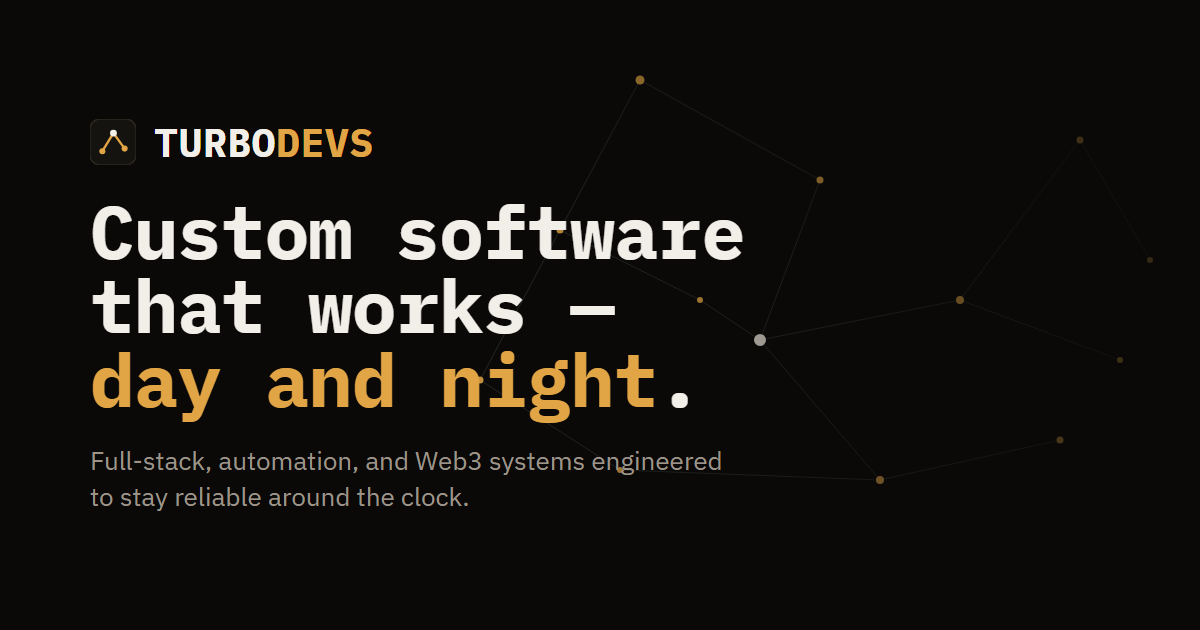
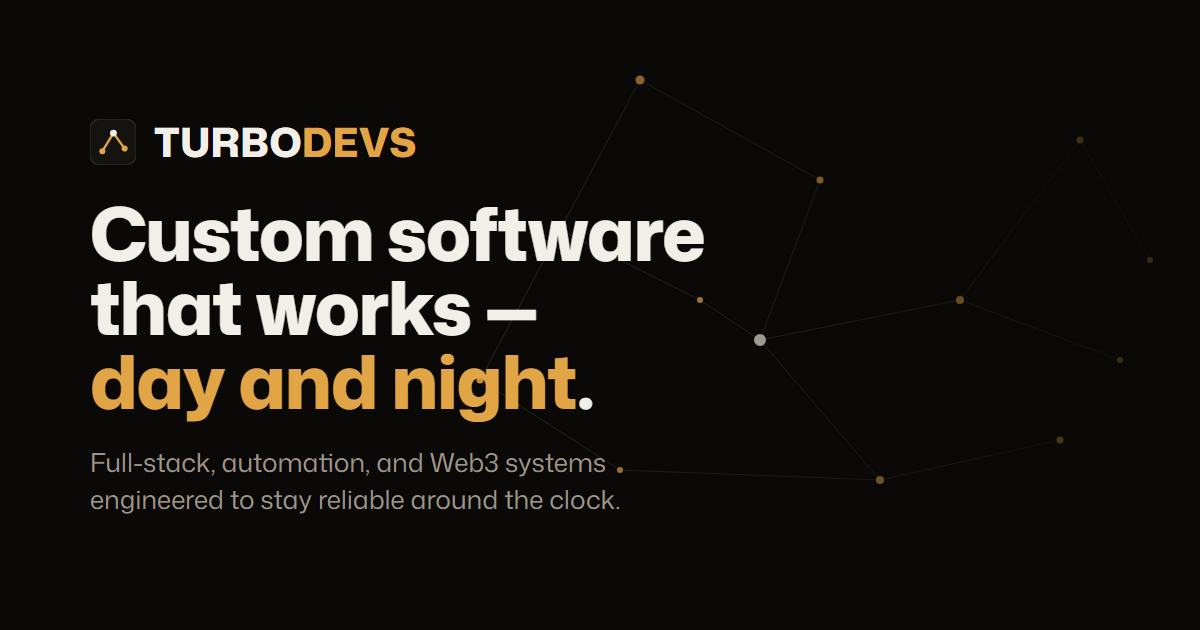
Switch the site's typeface to Mona Sans, matching dribbble.com exactly
Evaluation: inspected dribbble.com directly (computed styles + document.fonts)
rather than guessing from the screenshot. Confirmed they load exactly one
typeface, "Mona Sans Variable" (weight 200-900), for every element on the
page — headings and body alike — with fallback Helvetica Neue/Helvetica/
Arial/sans-serif. No secondary/mono face at all.

Decision: replace IBM Plex Sans with the same font+fallback stack site-wide.
Converged nearly all of the old font-mono "label" styling (nav, eyebrows,
badges, stat values, footer, language switcher — ~27 spots across 13 files)
onto Mona Sans at a heavier weight instead, matching how Dribbble builds its
own hierarchy from one typeface rather than a second face. Kept true
monospace (IBM Plex Mono) only where it's functionally meaningful, not just
decorative: the fail-closed demo's terminal simulation (prompt, log output,
env-var-style toggle labels), and real GitHub repo identifiers in the work
grid (sii, previred, ...) which read naturally as code, not headings.

Also regenerated the OG image, self-hosting Mona Sans locally (it isn't on
Google Fonts) so the static preview card matches the live page.

Verified: full test suite green, build clean, no leftover IBM Plex Sans
references anywhere, terminal demo still renders as a real monospace
terminal, and German (longest compound words) still fits with zero overflow
at mobile width despite every label going bolder.

Changed region(s): [[0.0617, 0.3016, 0.6167, 0.6937], [0.0617, 0.6937, 0.6167, 0.8143], [0.1233, 0.181, 0.37, 0.2714]]

diff --git a/src/components/sections/Nav.tsx b/src/components/sections/Nav.tsx
@@ -61,7 +61,7 @@ export function Nav() {
       <nav className="mx-auto flex h-16 max-w-6xl items-center justify-between px-5 sm:px-8">
         <a
           href="#top"
-          className="flex items-center gap-2 font-mono text-[13px] font-semibold tracking-[0.02em] text-ink"
+          className="flex items-center gap-2 text-[13px] font-extrabold tracking-[0.02em] text-ink"
         >
           <Mark />
           TurboDevs
@@ -72,7 +72,7 @@ export function Nav() {
             <li key={item.href}>
               <a
                 href={item.href}
-                className="inline-block py-2 font-mono text-[12px] tracking-[0.06em] text-muted uppercase transition-colors hover:text-ink"
+                className="inline-block py-2 text-[12px] font-semibold tracking-[0.06em] text-muted uppercase transition-colors hover:text-ink"
               >
                 {t.nav[item.key]}
               </a>
@@ -84,7 +84,7 @@ export function Nav() {
           <LanguageSwitcher />
           <a
             href="#contact"
-            className="rounded-full bg-accent px-5 py-2 font-mono text-[12px] font-semibold tracking-[0.02em] text-bg transition-colors hover:bg-[#f0b85c]"
+            className="rounded-full bg-accent px-5 py-2 text-[12px] font-bold tracking-[0.02em] text-bg transition-colors hover:bg-[#f0b85c]"
           >
             {t.nav.startProject}
           </a>
@@ -119,7 +119,7 @@ export function Nav() {
                   <a
                     href={item.href}
                     onClick={() => setOpen(false)}
-                    className="block py-2.5 font-mono text-[13px] tracking-[0.04em] text-ink uppercase"
+                    className="block py-2.5 text-[13px] font-semibold tracking-[0.04em] text-ink uppercase"
                   >
                     {t.nav[item.key]}
                   </a>
@@ -129,7 +129,7 @@ export function Nav() {
                 <a
                   href="#contact"
                   onClick={() => setOpen(false)}
-                  className="block rounded-full bg-accent px-5 py-2.5 text-center font-mono text-[13px] font-semibold text-bg"
+                  className="block rounded-full bg-accent px-5 py-2.5 text-center text-[13px] font-bold text-bg"
                 >
                   {t.nav.startProject}
                 </a>

diff --git a/scripts/og-image.html b/scripts/og-image.html
@@ -2,16 +2,25 @@
 <html>
 <head>
 <meta charset="UTF-8" />
-<link rel="preconnect" href="https://fonts.googleapis.com" />
-<link href="https://fonts.googleapis.com/css2?family=IBM+Plex+Mono:wght@500;600;700&family=IBM+Plex+Sans:wght@400;500&display=swap" rel="stylesheet" />
 <style>
+  /* Self-hosted from node_modules — same package the live site imports via
+     @fontsource-variable/mona-sans, so this static image uses the exact
+     same typeface as the page it's a preview card for. Google Fonts doesn't
+     carry Mona Sans (it's GitHub's own font), hence the local file:// path
+     instead of the usual <link> tag. */
+  @font-face {
+    font-family: 'Mona Sans Variable';
+    src: url('../node_modules/@fontsource-variable/mona-sans/files/mona-sans-latin-wght-normal.woff2') format('woff2-variations');
+    font-weight: 200 900;
+    font-style: normal;
+  }
   * { margin: 0; padding: 0; box-sizing: border-box; }
   html, body {
     width: 1200px;
     height: 630px;
     background: #0a0908;
     overflow: hidden;
-    font-family: 'IBM Plex Sans', sans-serif;
+    font-family: 'Mona Sans Variable', 'Helvetica Neue', Helvetica, Arial, sans-serif;
   }
   svg.graph {
     position: absolute;
@@ -41,22 +50,19 @@
   }
   .mark svg { width: 46px; height: 46px; }
   .wordmark {
-    font-family: 'IBM Plex Mono', monospace;
-    font-weight: 700;
+    font-weight: 800;
     font-size: 40px;
     letter-spacing: 0.01em;
     color: #f2efe9;
   }
   .name {
-    font-family: 'IBM Plex Mono', monospace;
-    font-weight: 700;
+    font-weight: 800;
     font-size: 74px;
-    letter-spacing: -0.01em;
+    letter-spacing: -0.02em;
     color: #f2efe9;
     line-height: 1;
   }
   .tagline {
-    font-family: 'IBM Plex Sans', sans-serif;
     font-weight: 400;
     font-size: 26px;
     color: #9c9488;

diff --git a/src/components/sections/FeaturedWork.tsx b/src/components/sections/FeaturedWork.tsx
@@ -12,7 +12,7 @@ export function FeaturedWork() {
   return (
     <section id="work" className="relative mx-auto max-w-6xl px-5 py-24 sm:px-8 sm:py-32">
       <Reveal>
-        <p className="font-mono text-[11px] font-semibold tracking-[0.16em] text-accent uppercase">
+        <p className="text-[11px] font-bold tracking-[0.16em] text-accent uppercase">
           {t.work.eyebrow}
         </p>
       </Reveal>
@@ -29,9 +29,12 @@ export function FeaturedWork() {
             <RevealItem key={item.slug}>
               <TiltCard className="h-full rounded-2xl">
                 <div className="tg-glass flex h-full flex-col rounded-2xl p-7">
-                  <p className="font-mono text-[11px] font-medium tracking-[0.08em] text-accent uppercase">
+                  <p className="text-[11px] font-bold tracking-[0.08em] text-accent uppercase">
                     {copy.kicker}
                   </p>
+                  {/* Kept in mono deliberately — this is a real repo/project
+                      identifier (sii, previred, ...), not a heading, and
+                      reads as the code-identifier it actually is. */}
                   <h3 className="mt-2 font-mono text-[18px] font-semibold text-ink">{item.name}</h3>
                   <p className="mt-3 flex-1 text-[14.5px] leading-relaxed text-muted">{copy.description}</p>
 
@@ -42,7 +45,7 @@ export function FeaturedWork() {
                   </div>
 
                   {item.metric && (
-                    <p className="mt-4 font-mono text-[12px] tracking-[0.02em] text-muted">{item.metric}</p>
+                    <p className="tabular-nums mt-4 text-[12px] font-medium tracking-[0.02em] text-muted">{item.metric}</p>
                   )}
 
                   {item.links.length > 0 && (

diff --git a/src/components/sections/Footer.tsx b/src/components/sections/Footer.tsx
@@ -21,13 +21,13 @@ export function Footer() {
         <WebVitals />
 
         <div className="mt-8 flex flex-col items-center gap-4 text-center sm:flex-row sm:justify-between sm:text-left">
-          <p className="font-mono text-[12px] tracking-[0.02em] text-muted">© {new Date().getFullYear()} TurboDevs.</p>
+          <p className="text-[12px] font-medium tracking-[0.02em] text-muted">© {new Date().getFullYear()} TurboDevs.</p>
           <ul className="flex flex-wrap items-center justify-center gap-6">
             {NAV_ITEMS.map((item) => (
               <li key={item.href}>
                 <a
                   href={item.href}
-                  className="font-mono text-[11px] tracking-[0.06em] text-muted uppercase transition-colors hover:text-ink"
+                  className="text-[11px] font-semibold tracking-[0.06em] text-muted uppercase transition-colors hover:text-ink"
                 >
                   {t.nav[item.key]}
                 </a>
@@ -38,7 +38,7 @@ export function Footer() {
                 href={FOOTER_INFO.repoHref}
                 target="_blank"
                 rel="noreferrer"
-                className="inline-flex items-center gap-1.5 font-mono text-[11px] tracking-[0.06em] text-muted uppercase transition-colors hover:text-ink"
+                className="inline-flex items-center gap-1.5 text-[11px] font-semibold tracking-[0.06em] text-muted uppercase transition-colors hover:text-ink"
               >
                 <GitFork aria-hidden="true" className="size-3.5" />
                 {t.footer.sourceLabel}

diff --git a/src/components/WebVitals.tsx b/src/components/WebVitals.tsx
@@ -40,18 +40,18 @@ function StatCell({ name, metric }: { name: MetricName; metric?: MetricState }) 
     <div className="flex flex-col gap-2.5 rounded-xl border border-border bg-surface-2 px-4 py-4">
       <div className="flex items-center gap-2">
         <Icon aria-hidden="true" className="size-3.5 shrink-0 text-accent" />
-        <span className="font-mono text-[10.5px] font-semibold tracking-[0.08em] text-ink uppercase">
+        <span className="text-[10.5px] font-bold tracking-[0.08em] text-ink uppercase">
           {copy.label}
         </span>
       </div>
 
-      <span className="font-mono text-[22px] font-semibold tracking-[-0.01em] text-ink">
+      <span className="tabular-nums text-[22px] font-bold tracking-[-0.01em] text-ink">
         {measured ? formatValue(name, metric.value) : "—"}
       </span>
 
       <span
         className={cn(
-          "font-mono text-[11px] tracking-[0.02em]",
+          "text-[11px] tracking-[0.02em]",
           measured ? (isGood ? "text-accent" : "text-[#e08a45]") : "text-muted italic",
         )}
       >
@@ -84,7 +84,7 @@ export function WebVitals() {
 
   return (
     <div className="tg-glass rounded-2xl p-6">
-      <p className="font-mono text-[11px] font-semibold tracking-[0.16em] text-accent uppercase">
+      <p className="text-[11px] font-bold tracking-[0.16em] text-accent uppercase">
         {t.webVitals.eyebrow}
       </p>
       <div className="mt-4 grid grid-cols-1 gap-3 sm:grid-cols-3">

diff --git a/src/index.css b/src/index.css
@@ -1,11 +1,19 @@
 @import "tailwindcss";
-@import "@fontsource-variable/ibm-plex-sans";
+@import "@fontsource-variable/mona-sans";
 @import "@fontsource/ibm-plex-mono/500.css";
 @import "@fontsource/ibm-plex-mono/600.css";
 @import "@fontsource/ibm-plex-mono/700.css";
 
 @theme inline {
-  --font-sans: "IBM Plex Sans Variable", -apple-system, BlinkMacSystemFont, "Segoe UI", sans-serif;
+  /* Same typeface dribbble.com actually loads (verified: their computed
+     h1/body/nav font-family is "Mona Sans", weight range 200–900) — same
+     family name, same fallback stack. */
+  --font-sans: "Mona Sans Variable", "Helvetica Neue", Helvetica, Arial, sans-serif;
+  /* True monospace, kept only for the fail-closed demo's terminal — the
+     one place on the site where a real character-width grid is a functional
+     requirement, not a stylistic one. Everything that used to borrow this
+     for "label" styling now uses --font-sans at a heavier weight instead,
+     matching how Dribbble builds its own hierarchy from one typeface. */
   --font-mono: "IBM Plex Mono", ui-monospace, "SFMono-Regular", Menlo, monospace;
 
   --color-bg: #0a0908;

diff --git a/src/components/LanguageSwitcher.tsx b/src/components/LanguageSwitcher.tsx
@@ -36,7 +36,7 @@ export function LanguageSwitcher({ className }: { className?: string }) {
         onClick={() => setOpen((v) => !v)}
         aria-haspopup="listbox"
         aria-expanded={open}
-        className="inline-flex items-center gap-1.5 rounded-full border border-border bg-surface px-3 py-1.5 font-mono text-[11px] font-semibold tracking-[0.04em] text-ink transition-colors hover:border-accent"
+        className="inline-flex items-center gap-1.5 rounded-full border border-border bg-surface px-3 py-1.5 text-[11px] font-bold tracking-[0.04em] text-ink transition-colors hover:border-accent"
       >
         <Globe aria-hidden="true" className="size-3.5 text-muted" />
         {current?.label}
@@ -67,7 +67,7 @@ export function LanguageSwitcher({ className }: { className?: string }) {
                   )}
                 >
                   <span>{l.name}</span>
-                  <span className="font-mono text-[11px] text-muted">{l.label}</span>
+                  <span className="text-[11px] font-semibold text-muted">{l.label}</span>
                 </button>
               </li>
             ))}

diff --git a/src/components/sections/Approach.tsx b/src/components/sections/Approach.tsx
@@ -7,7 +7,7 @@ export function Approach() {
   return (
     <section id="approach" className="relative mx-auto max-w-6xl px-5 py-24 sm:px-8 sm:py-32">
       <Reveal>
-        <p className="font-mono text-[11px] font-semibold tracking-[0.16em] text-accent uppercase">
+        <p className="text-[11px] font-bold tracking-[0.16em] text-accent uppercase">
           {t.approach.eyebrow}
         </p>
       </Reveal>
@@ -23,7 +23,7 @@ export function Approach() {
       <RevealGroup className="mt-14 grid gap-5 sm:grid-cols-3">
         {t.approach.pillars.map((pillar, i) => (
           <RevealItem key={pillar.title} className="rounded-2xl border border-border bg-surface p-7">
-            <span className="font-mono text-[12px] tracking-[0.06em] text-accent">0{i + 1}</span>
+            <span className="tabular-nums text-[12px] font-bold tracking-[0.06em] text-accent">0{i + 1}</span>
             <h3 className="mt-3 text-[17px] font-semibold text-ink">{pillar.title}</h3>
             <p className="mt-2.5 text-[14.5px] leading-relaxed text-muted">{pillar.body}</p>
           </RevealItem>

diff --git a/src/components/sections/Notes.tsx b/src/components/sections/Notes.tsx
@@ -22,7 +22,7 @@ function NoteCard({ note, readSuffix }: { note: NoteCopy; readSuffix: string }) 
         className="flex w-full items-start justify-between gap-4 px-6 py-6 text-left sm:px-8"
       >
         <div>
-          <p className="font-mono text-[11px] tracking-[0.06em] text-muted uppercase">
+          <p className="text-[11px] font-semibold tracking-[0.06em] text-muted uppercase">
             {note.readTime} {readSuffix}
           </p>
           <h3 className="mt-2 text-[19px] font-semibold text-ink">{note.title}</h3>
@@ -59,7 +59,7 @@ export function Notes() {
   return (
     <section id="notes" className="relative mx-auto max-w-4xl px-5 py-24 sm:px-8 sm:py-32">
       <Reveal>
-        <p className="font-mono text-[11px] font-semibold tracking-[0.16em] text-accent uppercase">
+        <p className="text-[11px] font-bold tracking-[0.16em] text-accent uppercase">
           {t.notes.eyebrow}
         </p>
       </Reveal>

diff --git a/src/components/sections/ProofStrip.tsx b/src/components/sections/ProofStrip.tsx
@@ -41,7 +41,7 @@ export function ProofStrip() {
           <span key={stat.label} className="flex items-center gap-x-2">
             {index > 0 && <span className="text-muted" aria-hidden="true">·</span>}
             <span className="flex items-baseline gap-1.5">
-              <span className="font-mono tabular-nums font-semibold text-accent">{stat.value}</span>
+              <span className="tabular-nums font-bold text-accent">{stat.value}</span>
               <span className="text-muted">{stat.label}</span>
             </span>
           </span>

diff --git a/src/components/sections/Contact.tsx b/src/components/sections/Contact.tsx
@@ -31,7 +31,7 @@ export function Contact() {
   return (
     <section id="contact" className="relative mx-auto max-w-3xl px-5 py-24 sm:px-8 sm:py-32">
       <Reveal className="text-center">
-        <p className="font-mono text-[11px] font-semibold tracking-[0.16em] text-accent uppercase">
+        <p className="text-[11px] font-bold tracking-[0.16em] text-accent uppercase">
           {t.contact.eyebrow}
         </p>
         <h2 className="mt-3 text-[28px] leading-[1.2] font-semibold tracking-[-0.01em] text-ink sm:text-[36px]">

diff --git a/src/components/sections/Grantfox.tsx b/src/components/sections/Grantfox.tsx
@@ -12,7 +12,7 @@ export function Grantfox() {
     <section id="grantfox" className="relative mx-auto max-w-6xl px-5 py-24 sm:px-8 sm:py-32">
       <div className="tg-glass rounded-3xl p-7 sm:p-12">
         <Reveal>
-          <p className="font-mono text-[11px] font-semibold tracking-[0.16em] text-accent uppercase">
+          <p className="text-[11px] font-bold tracking-[0.16em] text-accent uppercase">
             {t.grantfox.eyebrow}
           </p>
         </Reveal>
